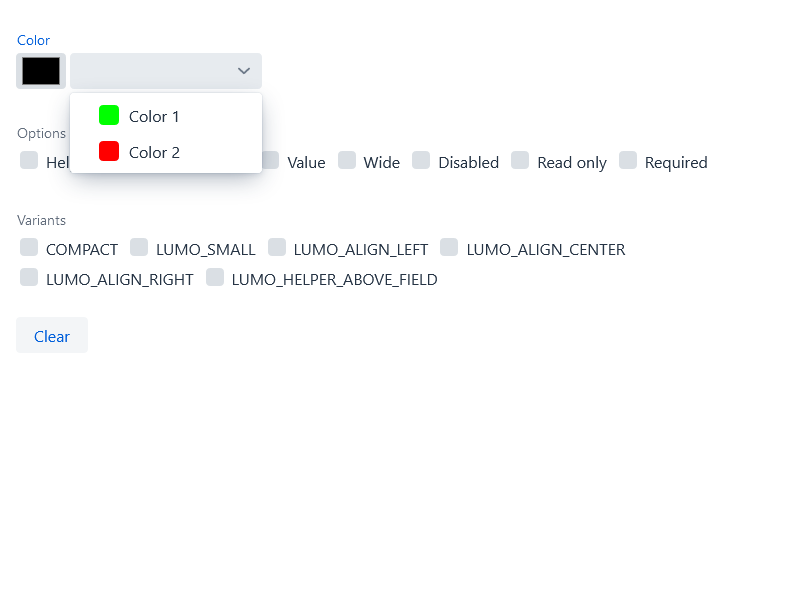
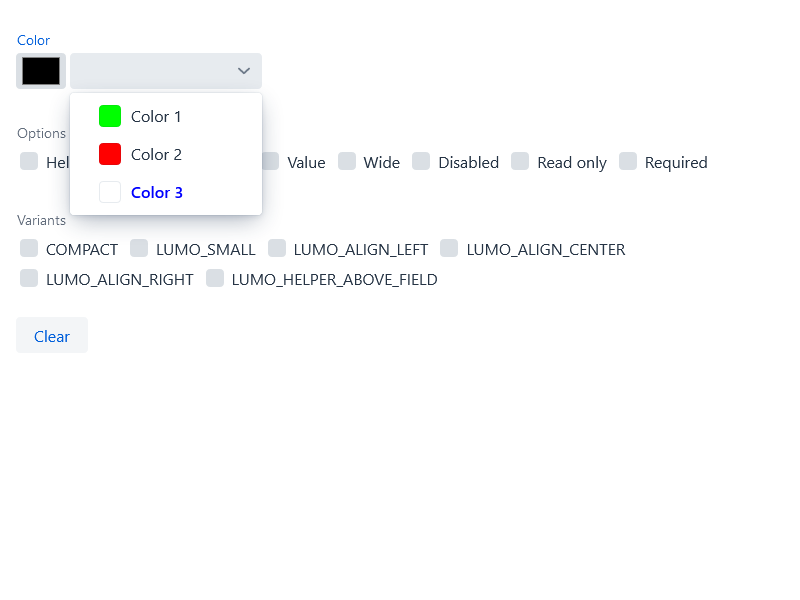
Version 1.4.0: Support HTML captions for presets via CaptionMode, added setNoClear

Changed region(s): [[0.0625, 0.18, 0.3438, 0.39]]

diff --git a/src/main/resources/META-INF/resources/frontend/color-picker.ts b/src/main/resources/META-INF/resources/frontend/color-picker.ts
@@ -12,6 +12,7 @@ import { TooltipController } from '@vaadin/component-base/src/tooltip-controller
 interface Preset {
 	color : string;
 	caption : string;
+	captionMode: string;
 }
 
 @customElement('color-picker')
@@ -28,6 +29,8 @@ export class ColorPicker extends ThemableMixin(LitElement) {
   errorMessage = null;
   @property()
   nocssinput : boolean | undefined = undefined;
+  @property()
+  noclear : boolean | undefined = undefined;
 
   @property({reflect: true})
   invalid : boolean | undefined = undefined;
@@ -48,6 +51,7 @@ export class ColorPicker extends ThemableMixin(LitElement) {
   _colorPicker! : HTMLInputElement;
 
   _tooltipController : TooltipController | undefined;
+  _updated = false;
 
   // This is needed just for ThemableMixin
   static get is() {
@@ -65,7 +69,7 @@ export class ColorPicker extends ThemableMixin(LitElement) {
 		}
 		#colorpicker {
 			color: var(--lumo-secondary-text-color);
-			padding: 0 calc(0.375em + var(--lumo-border-radius) / 4 - 1px);
+			padding: 0 calc(0.375em + var(--lumo-border-radius-m) / 4 - 1px);
     		font-weight: 500;
     		line-height: 1;
 			font-size: var(--lumo-font-size-m);
@@ -201,6 +205,9 @@ export class ColorPicker extends ThemableMixin(LitElement) {
 	this.color = e.target.value;
 	console.log("Color: "+this.color);
 	this._emitColorChanged();
+	if (this._comboBox && this.noclear && this.color) {
+	   this._comboBox.value = this.color;
+	}
   }
 
   protected _handlePreset(e: ComboBoxChangeEvent<Preset>) {
@@ -209,10 +216,14 @@ export class ColorPicker extends ThemableMixin(LitElement) {
 	if (preset) {
 		this.color = preset.color;
 	    this._emitColorChanged();
-		// Clear text input for better usability
 	}
 	if (this._comboBox) {
-		this._comboBox.value='';
+		// Clear text input for better usability
+		if (this.noclear && this.color) {
+		  this._comboBox.value = this.color;	
+		} else {
+		  this._comboBox.value='';
+		}
 	}
   }
 
@@ -269,6 +280,23 @@ export class ColorPicker extends ThemableMixin(LitElement) {
     this.theme = theme;
   }
 
+  protected _updateCaptions() {
+	if (this._updated) {
+	  return;
+	}
+	if (this._comboBox.opened) {
+      const captionElements = this._comboBox._scroller.getElementsByClassName('color-caption');
+	  for (let i=0;i<captionElements.length;i++) {
+        if (captionElements[i].captionMode === "HTML") {
+         captionElements[i].children[0].innerHTML = captionElements[i].caption;
+	    } else {
+         captionElements[i].children[0].textContent = captionElements[i].caption;		  
+	    }
+      }
+      this._updated = true;
+    }
+  }
+
   render() {
 	// vaadin-custom-field is used as wrapper in order to have
 	// the common implementation of label, error message, helper
@@ -288,7 +316,7 @@ export class ColorPicker extends ThemableMixin(LitElement) {
           theme="${ifDefined(this.theme)}">
 
           <div id="wrapper">
-		  <input
+          <input
             id="colorpicker"
             part="colorpicker"
             ?readonly=${this.readonly}
@@ -312,6 +340,7 @@ export class ColorPicker extends ThemableMixin(LitElement) {
             .items="${this.presets}"
             item-label-path="caption"
             @change=${this._handlePreset}
+            @opened-changed=${this._updateCaptions}
             @custom-value-set=${this._cssColorInput}
             ${comboBoxRenderer(this.renderer, [])}
 			@blur=${this._handleBlur}
@@ -325,11 +354,15 @@ export class ColorPicker extends ThemableMixin(LitElement) {
   private renderer: ComboBoxLitRenderer<Preset> = (preset) => {
     // Renders nicer looking color items with color badge and label in the dropdown
     return html`
-      <div style="display: flex;">
-        <div style="width: 20px; height: 20px; background: ${preset.color}; margin-right: 10px; border-radius: var(--lumo-border-radius-s);">          
+      <div part="color-preset" style="display: flex;">
+        <div
+          part="color-preset-color"
+          style="width: 20px; height: 20px; background: ${preset.color}; margin-right: 10px; border: solid 1px var(--lumo-contrast-10pct); border-radius: var(--lumo-border-radius-s);"
+        >          
         </div>
-        <div>
-          ${preset.caption}
+        <div class="color-caption" .captionMode=${preset.captionMode} .caption=${preset.caption}>
+          <div>
+          </div>
         </div>
       </div>
     `;

diff --git a/src/main/java/org/vaadin/addons/tatu/ColorPicker.java b/src/main/java/org/vaadin/addons/tatu/ColorPicker.java
@@ -4,6 +4,10 @@ import java.io.Serializable;
 import java.util.List;
 import java.util.Objects;
 
+import org.jsoup.Jsoup;
+import org.jsoup.nodes.Document;
+import org.jsoup.safety.Safelist;
+
 import com.vaadin.flow.component.AbstractSinglePropertyField;
 import com.vaadin.flow.component.Focusable;
 import com.vaadin.flow.component.HasHelper;
@@ -37,11 +41,26 @@ public class ColorPicker
         HasValidator<String>, HasTooltip {
 
     /**
+     * Caption mode.
+     */
+    public enum CaptionMode {
+        /**
+         * Use caption as plain text.
+         */
+        TEXT,
+        /**
+         * Use caption as HTML, will be sanitized.
+         */
+        HTML;
+    }
+
+    /**
      * A preset color.
      */
     public static class ColorPreset implements Serializable {
         private String color;
         private String caption;
+        private CaptionMode captionMode = CaptionMode.TEXT;
 
         /**
          * Constructor.
@@ -55,6 +74,24 @@ public class ColorPicker
         public ColorPreset(String color, String caption) {
             setColor(color);
             setCaption(caption);
+        }
+
+        /**
+         * Constructor with @see CaptionMode
+         * 
+         * @param color
+         *            Color value in six digits hex string, e.g. #ffffff, not
+         *            null.
+         * @param caption
+         *            Displayed name of the color, not null.
+         * @param captionMode
+         *            The CaptionMode, @see CaptionMode
+         */
+        public ColorPreset(String color, String caption,
+                CaptionMode captionMode) {
+            setColor(color);
+            setCaption(caption);
+            setCaptionMode(captionMode);
         }
 
         /**
@@ -105,7 +142,32 @@ public class ColorPicker
          */
         public void setCaption(String caption) {
             Objects.requireNonNull(caption, "caption can't be null");
+            if (getCaptionMode() == CaptionMode.HTML) {
+                caption = sanitize(caption);
+            }
             this.caption = caption;
+        }
+
+        /**
+         * Set the @see CaptionMode
+         * 
+         * @param captionMode
+         *            CaptionMode.
+         */
+        public void setCaptionMode(CaptionMode captionMode) {
+            this.captionMode = captionMode;
+            if (captionMode == CaptionMode.HTML) {
+                setCaption(getCaption());
+            }
+        }
+
+        /**
+         * Get the @see CaptionMode.
+         * 
+         * @return CaptionMode
+         */
+        public CaptionMode getCaptionMode() {
+            return captionMode;
         }
     }
 
@@ -188,6 +250,20 @@ public class ColorPicker
         }
     }
 
+    /**
+     * Set to true in order not to clear the input after color entry.
+     * 
+     * @param noclear
+     *            boolean value.
+     */
+    public void setNoClear(boolean noclear) {
+        if (noclear) {
+            getElement().setProperty("noclear", true);
+        } else {
+            getElement().removeProperty("noclear");
+        }
+    }
+
     @Override
     public Validator<String> getDefaultValidator() {
         return (value, context) -> checkValidity(value);
@@ -200,5 +276,13 @@ public class ColorPicker
         } else {
             return ValidationResult.error("Input is not a color");
         }
+    }
+
+    private static String sanitize(String html) {
+        Safelist safelist = Safelist.relaxed().addAttributes(":all", "style")
+                .addEnforcedAttribute("a", "rel", "nofollow");
+        String sanitized = Jsoup.clean(html, "", safelist,
+                new Document.OutputSettings().prettyPrint(false));
+        return sanitized;
     }
 }

diff --git a/src/test/java/org/vaadin/addons/tatu/AbstractColorPickerIT.java b/src/test/java/org/vaadin/addons/tatu/AbstractColorPickerIT.java
@@ -3,9 +3,7 @@ package org.vaadin.addons.tatu;
 import java.io.IOException;
 
 import org.junit.Assert;
-import org.junit.Test;
 import org.openqa.selenium.By;
-import org.openqa.selenium.ElementNotInteractableException;
 import org.openqa.selenium.Keys;
 import org.openqa.selenium.NotFoundException;
 import org.openqa.selenium.WebElement;
@@ -167,6 +165,19 @@ public abstract class AbstractColorPickerIT extends AbstractViewTest {
                 "1", events.getText());
     }
 
+    public void noClearAndConvertToHex() {
+        initTest();
+        colorPicker.setProperty("noclear", true);
+        colorPicker.sendKeys("blue");
+        colorPicker.sendKeys(Keys.TAB);
+        Assert.assertEquals("Input element should not be emptied", "#0000ff",
+                colorPicker.getComboBox().getInputElementValue());
+        colorPicker.focus();
+        colorPicker.selectPreset("Color 2");
+        Assert.assertEquals("Input element should not be emptied", "#ff0000",
+                colorPicker.getComboBox().getInputElementValue());
+    }
+
     public void disabledinput() {
         initTest();
         options.selectByText("Disabled");
@@ -239,7 +250,7 @@ public abstract class AbstractColorPickerIT extends AbstractViewTest {
                 notification.getText());
         Assert.assertEquals("Field should be valid", null,
                 colorPicker.getPropertyString("invalid"));
-        
+
         colorPicker.focus();
         colorPicker.sendKeys("weriuouwqero");
         colorPicker.sendKeys(Keys.TAB);

diff --git a/src/test/java/org/vaadin/addons/tatu/View.java b/src/test/java/org/vaadin/addons/tatu/View.java
@@ -3,6 +3,7 @@ package org.vaadin.addons.tatu;
 import java.util.Arrays;
 import java.util.Set;
 
+import org.vaadin.addons.tatu.ColorPicker.CaptionMode;
 import org.vaadin.addons.tatu.ColorPicker.ColorPreset;
 
 import com.vaadin.flow.component.button.Button;
@@ -29,9 +30,12 @@ public class View extends VerticalLayout implements AppShellConfigurator {
 
         ColorPicker colorPicker = new ColorPicker();
         colorPicker.setLabel("Color");
-        colorPicker
-                .setPresets(Arrays.asList(new ColorPreset("#00ff00", "Color 1"),
-                        new ColorPreset("#ff0000", "Color 2")));
+        colorPicker.setPresets(Arrays.asList(
+                new ColorPreset("#00ff00", "Color 1"),
+                new ColorPreset("#ff0000", "Color 2"),
+                new ColorPreset("#ffffff",
+                        "<b style='color: blue'><img src=1 onerror=alert(document.domain)>Color 3</b>",
+                        CaptionMode.HTML)));
 
         colorPicker.addValueChangeListener(event -> {
             Notification.show("" + event.getValue());

diff --git a/src/test/java/org/vaadin/addons/tatu/ColorPickerTest.java b/src/test/java/org/vaadin/addons/tatu/ColorPickerTest.java
@@ -23,6 +23,7 @@ import java.util.concurrent.atomic.AtomicInteger;
 
 import org.junit.Assert;
 import org.junit.Test;
+import org.vaadin.addons.tatu.ColorPicker.CaptionMode;
 import org.vaadin.addons.tatu.ColorPicker.ColorPreset;
 import org.vaadin.addons.tatu.ColorPicker.InputMode;
 
@@ -189,5 +190,13 @@ public class ColorPickerTest {
         Assert.assertTrue(colorPicker instanceof HasSize);
         Assert.assertTrue(colorPicker instanceof HasLabel);
         Assert.assertTrue(colorPicker instanceof HasValidation);
+    }
+
+    @Test
+    public void colorPresetSanitized() {
+        ColorPreset preset = new ColorPreset("#ffffff",
+                "<b><img src=1 onerror=alert(document.domain)>Color 3</b>",
+                CaptionMode.HTML);
+        Assert.assertEquals("<b><img>Color 3</b>", preset.getCaption());
     }
 }

diff --git a/src/test/java/org/vaadin/addons/tatu/ChromeColorPickerIT.java b/src/test/java/org/vaadin/addons/tatu/ChromeColorPickerIT.java
@@ -53,6 +53,11 @@ public class ChromeColorPickerIT extends ChromeTest {
         super.cssInputWorksByName();
     }
 
+    @Test
+    public void noClearAndConvertToHex() {
+        super.noClearAndConvertToHex();
+    }
+    
     @Test(expected = ElementNotInteractableException.class)
     public void disabledinput() {
         super.disabledinput();

diff --git a/README.md b/README.md
@@ -14,6 +14,7 @@ The component has design that fits Vaadin family of components, aka Lumo desing 
 * Dropdown can be populated by color presets
 * Small, compact, etc. theme variants
 * Tooltip
+* Supports HTML captions for presets
 
 ## Unit and integration tests
 
